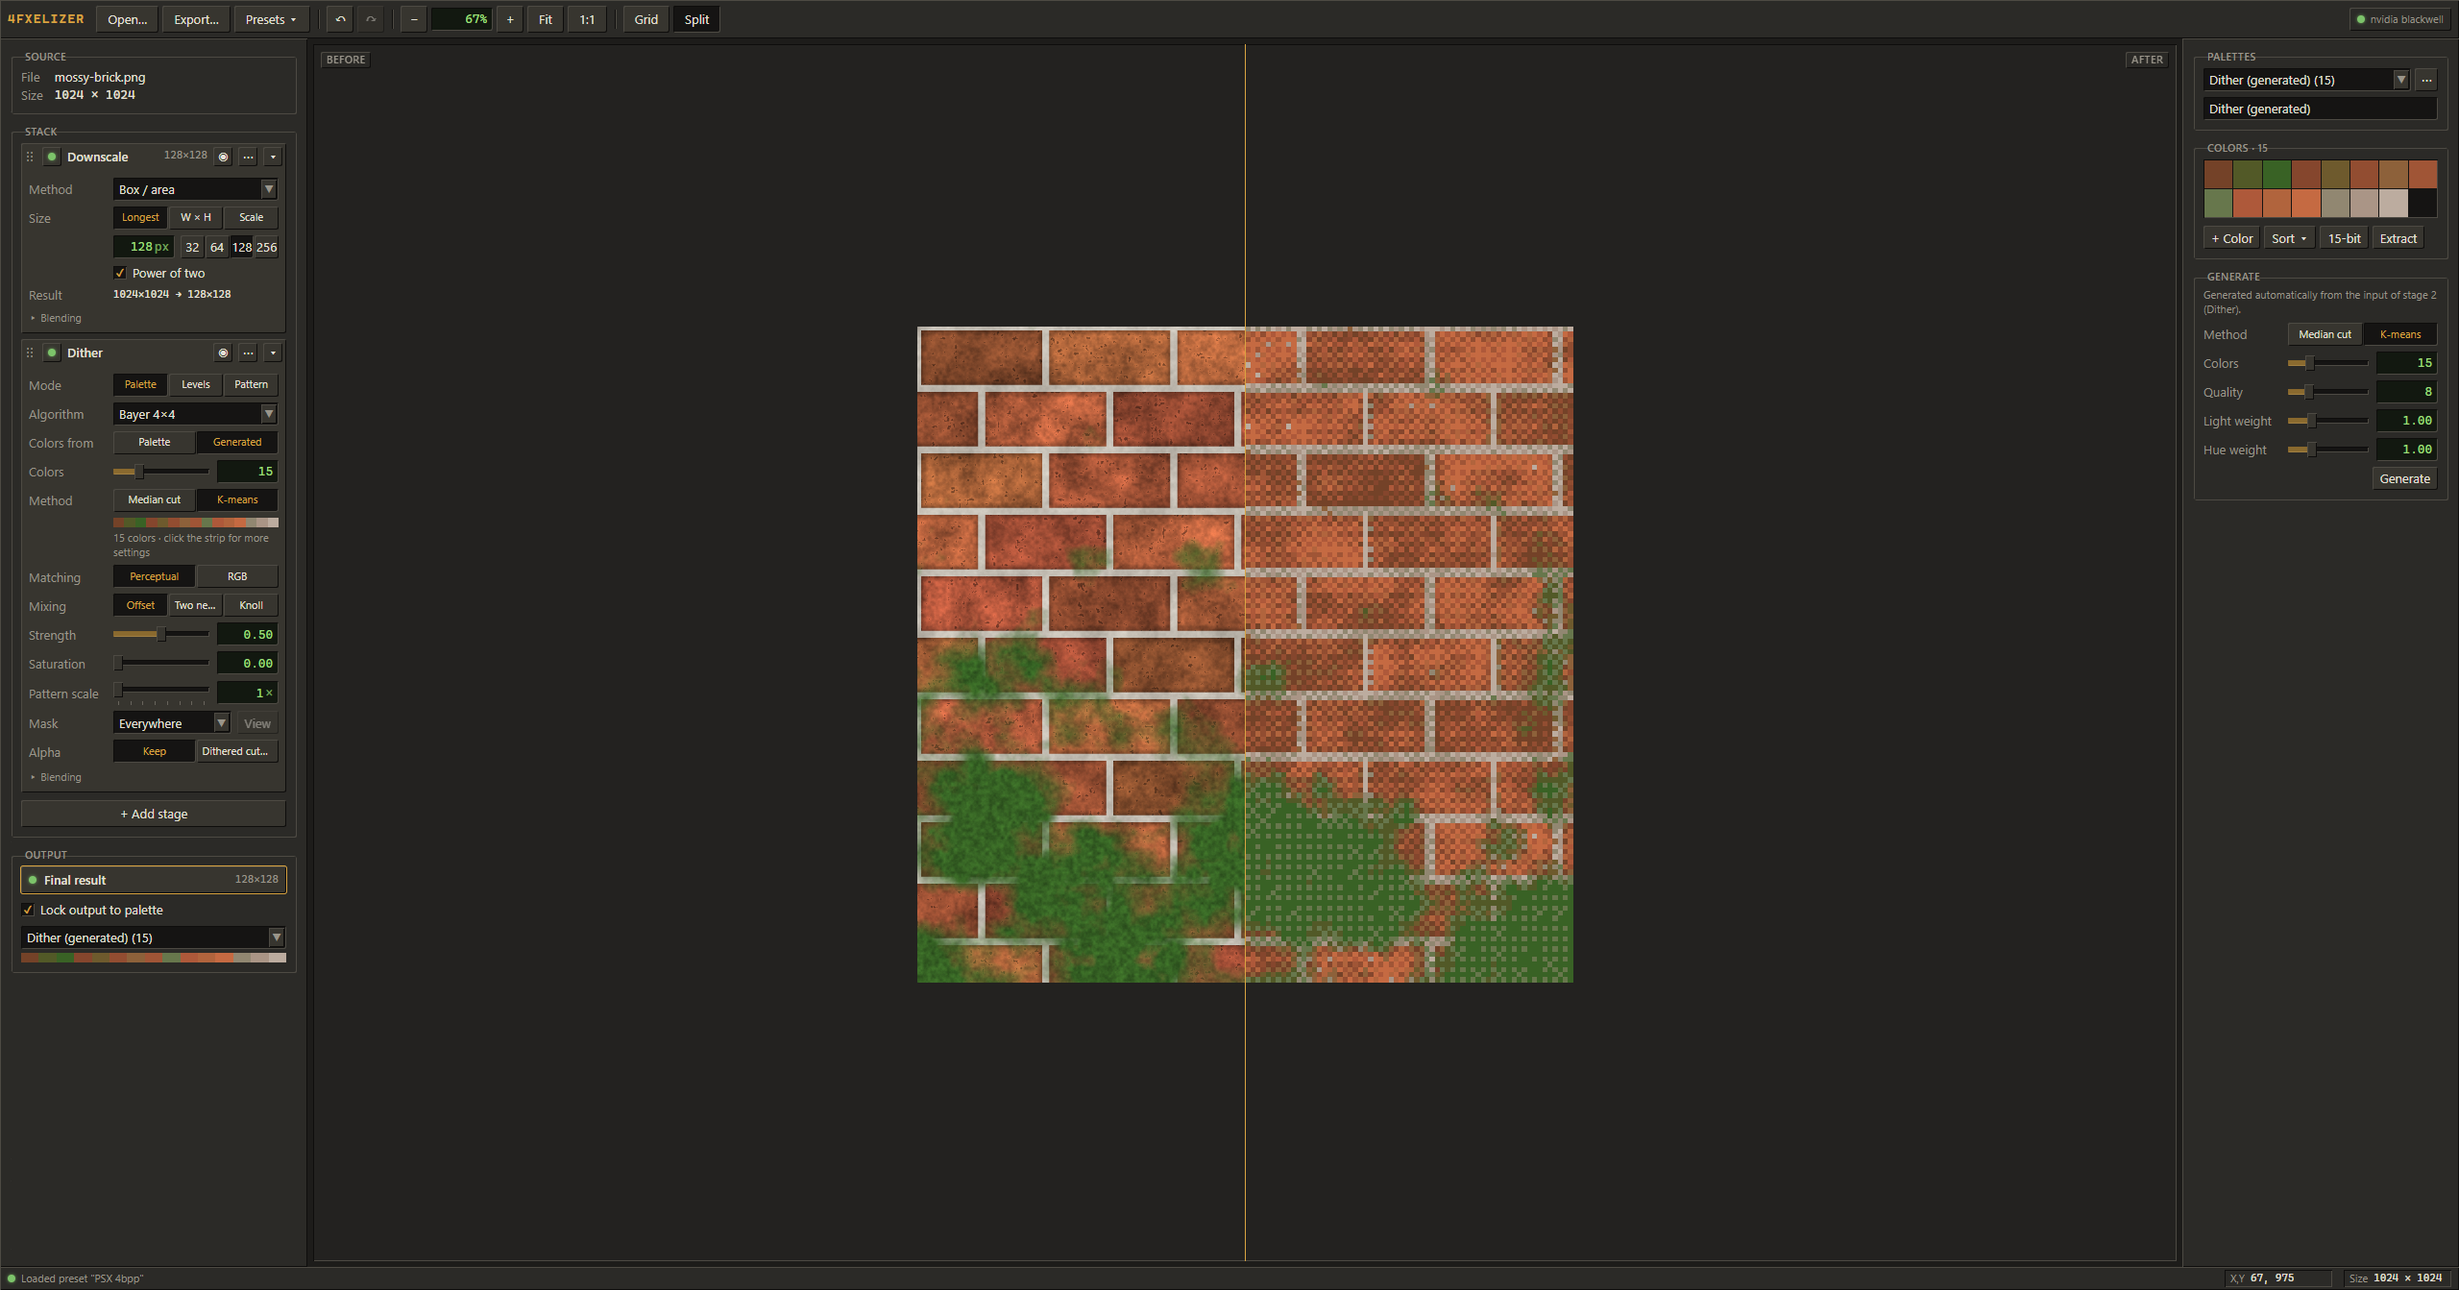
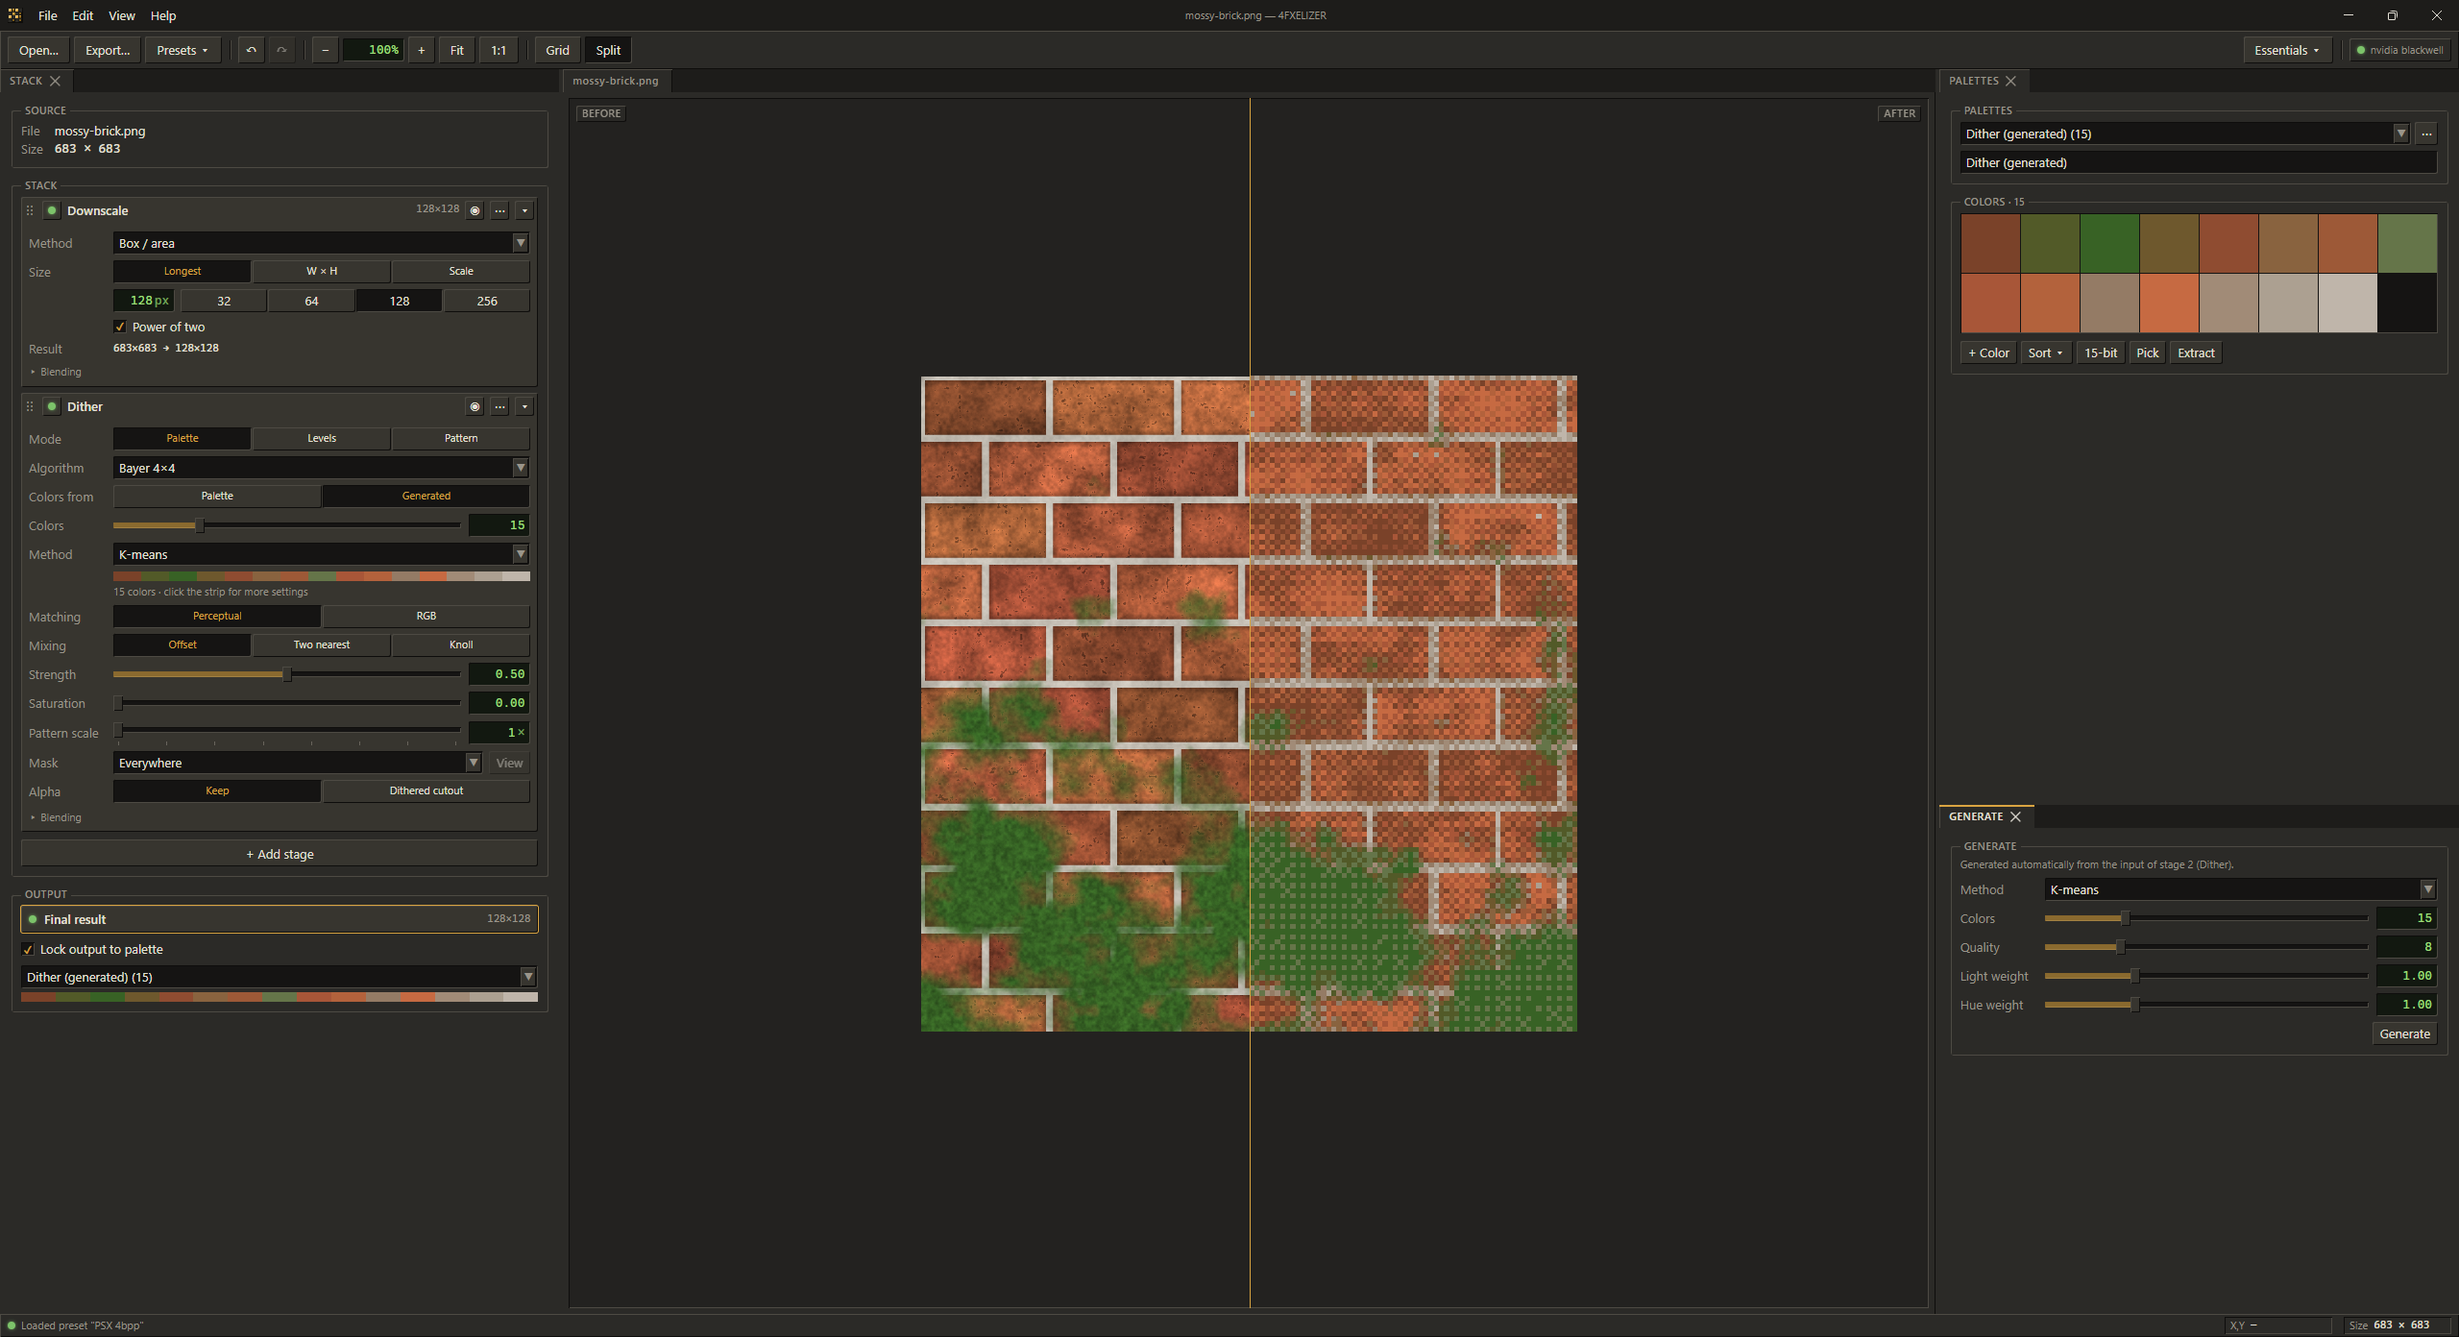
docs: update README, website and screenshot for the title bar, dockable panels, eyedropper and TGA/BMP export

diff --git a/site/index.html b/site/index.html
@@ -79,20 +79,20 @@ footer{border-top:1px solid var(--line);padding:28px 0;color:var(--dim);font-siz
   <div class="grid">
     <div class="card"><h3>Reorderable stage stack</h3><p>Adjust, Downscale, Upscale, Quantize and Dither. Drag them in any order, add the same stage twice, click one to preview the image at that point.</p></div>
     <div class="card"><h3>Real dithering</h3><p>Bayer, blue noise, halftone, lines, N64 magic square, plus Floyd–Steinberg, Atkinson, Stucki, Sierra and more. Masks decide where it applies.</p></div>
-    <div class="card"><h3>Smart palettes</h3><p>Generate up to 8192 colors in OKLab, start from PICO-8, NES, Game Boy, CGA or C64, import <code>.hex .gpl .pal .act .ase</code>, edit and lock colors.</p></div>
+    <div class="card"><h3>Smart palettes</h3><p>Generate up to 8192 colors in OKLab with median cut, Wu, octree or k-means, start from PICO-8, NES, Game Boy, CGA or C64, import <code>.hex .gpl .pal .act .ase</code>, edit and lock colors, or pick them from the image with the eyedropper.</p></div>
     <div class="card"><h3>Downscale &amp; upscale filters</h3><p>Box, Lanczos, dominant color, edge-preserving, contrast-aware; back up with the N64 3-point filter, Scale2x, sharp bilinear and more.</p></div>
     <div class="card"><h3>Presets</h3><p>PSX 8bpp / 4bpp / 15-bit, N64, NES-ish, Game Boy, Crunchy. Save your own as shareable <code>.4fxpreset</code> files.</p></div>
-    <div class="card"><h3>Exact export</h3><p>PNG (RGBA) or indexed PNG at 1/2/4/8 bits, with palette order kept and transparency at index 0. No color-space surprises.</p></div>
+    <div class="card"><h3>Exact export</h3><p>PNG, TGA or BMP, full color or indexed, with palette order kept and transparency at index 0. No color-space surprises.</p></div>
     <div class="card"><h3>WebGPU speed</h3><p>Every stage is a compute shader with per-stage caching, so tweaking a slider only re-runs what changed.</p></div>
-    <div class="card"><h3>Undo everything</h3><p>Undo and redo cover the stack and the palettes. Split view, pixel grid and zoom for close inspection.</p></div>
+    <div class="card"><h3>Your workspace</h3><p>Dock, tab, float and resize the panels, switch between built-in workspaces or save your own. Undo covers the stack and palettes; split view and pixel grid for close inspection.</p></div>
   </div>
 </div></section>
 
 <section id="gallery"><div class="wrap">
   <h2>Gallery</h2>
-  <p class="sub">One 1024×1024 source texture, six built-in presets.</p>
+  <p class="sub">One source texture, six built-in presets.</p>
   <div class="gallery">
-    <figure><img src="images/gallery-source.png" alt="Source" loading="lazy"><figcaption><b>Source</b> 1024×1024</figcaption></figure>
+    <figure><img src="images/gallery-source.png" alt="Source" loading="lazy"><figcaption><b>Source</b></figcaption></figure>
     <figure><img src="images/gallery-psx-8bpp.png" alt="PSX 8bpp" loading="lazy"><figcaption><b>PSX 8bpp</b> 256 colors</figcaption></figure>
     <figure><img src="images/gallery-psx-4bpp.png" alt="PSX 4bpp" loading="lazy"><figcaption><b>PSX 4bpp</b> 16 colors</figcaption></figure>
     <figure><img src="images/gallery-n64.png" alt="N64" loading="lazy"><figcaption><b>N64</b> filtered blur</figcaption></figure>
@@ -107,7 +107,7 @@ footer{border-top:1px solid var(--line);padding:28px 0;color:var(--dim);font-siz
   <ol class="steps">
     <li><b>Download</b> the installer for your OS from the <a href="https://github.com/forfex/4fxelizer/releases/latest">latest release</a> (Windows setup, macOS dmg, Linux AppImage or deb). Builds are not code-signed yet, so Windows SmartScreen or macOS Gatekeeper may warn.</li>
     <li><b>Drop a texture</b> into the window (PNG, JPG, TGA and more), or use <i>File › Open Image…</i>.</li>
-    <li><b>Pick a preset</b> or tweak the stack, compare with the split view, then <b>Export</b> a PNG or indexed PNG.</li>
+    <li><b>Pick a preset</b> or tweak the stack, compare with the split view, then <b>Export</b> a PNG, TGA or BMP, full color or indexed.</li>
   </ol>
   <p class="sub" style="margin-top:24px">Requires a GPU with WebGPU support. Windows 11 is the verified platform so far; macOS and Linux builds are produced by CI and feedback is welcome.</p>
   <p class="sub">Build from source:</p>
@@ -117,6 +117,6 @@ npm install
 npm run dev</code></pre>
 </div></section>
 
-<footer><div class="wrap">4FXELIZER · <a href="https://github.com/forfex/4fxelizer">GitHub</a> · <a href="https://github.com/forfex/4fxelizer/blob/master/docs/PLAN.md">Roadmap</a> · <a href="https://github.com/forfex/4fxelizer/issues">Issues</a></div></footer>
+<footer><div class="wrap">4FXELIZER · <a href="https://github.com/forfex/4fxelizer">GitHub</a> · <a href="https://github.com/forfex/4fxelizer/blob/master/docs/PLAN.md">Roadmap</a> · <a href="https://github.com/forfex/4fxelizer/issues">Issues</a> · <a href="https://github.com/forfex/4fxelizer/blob/master/LICENSE">MIT License</a></div></footer>
 </body>
 </html>

diff --git a/CLAUDE.md b/CLAUDE.md
@@ -24,7 +24,7 @@ Three Electron processes share one IPC contract:
 
 - `src/shared/api.ts`: the `FxApi` interface (exposed as `window.fx`), the `IPC` channel names and `MenuCommand`. Change the contract here first, then update main (`ipcMain.handle`) and preload.
 - `src/shared/menu.ts` defines the app menu once (`appMenu`). Main builds the native menu from it (keyboard shortcuts everywhere, the real menu bar on macOS); the renderer draws it in the custom title bar (`components/TitleBar.tsx`) on Windows/Linux. Add menu items there, never in only one place. Command items send a `MenuCommand`; role items (clipboard, full screen, quit) are performed by main (`runMenuRole`).
-- Title bar: the window uses `titleBarStyle: 'hidden'`. Windows/Linux keep the native window buttons as a `titleBarOverlay`, which the renderer colors from `--fx-titlebar-*` tokens at startup (`setTitleBarOverlay`); the title bar keeps clear of them with the `env(titlebar-area-*)` CSS variables. macOS keeps its traffic lights. Only the title bar's empty parts (icon, area around the title) are drag regions (`-webkit-app-region: drag`). Never layer a drag region over something clickable, not even a `pointer-events: none` overlay: Windows hit-tests drag regions before the page gets the click, so the control silently stops working with a real mouse (automated clicks don't go through that hit test and still pass).
+- Title bar: the window uses `titleBarStyle: 'hidden'`. Windows/Linux keep the native window buttons as a `titleBarOverlay`, which the renderer colors from `--fx-titlebar-*` tokens at startup (`setTitleBarOverlay`); the title bar keeps clear of them with the `env(titlebar-area-*)` CSS variables. macOS keeps its traffic lights. Only the title bar's empty parts (icon, area around the title) are drag regions (`-webkit-app-region: drag`); popups and dialogs are `no-drag` globally (`styles/index.css`) because they can overlap it. The in-app menu bar works from the keyboard like a native one (Alt / F10 focus it, Alt+letter opens a menu, Escape hands focus back), and remembers the focused element on pointer down so clipboard roles reach it. Never layer a drag region over something clickable, not even a `pointer-events: none` overlay: Windows hit-tests drag regions before the page gets the click, so the control silently stops working with a real mouse (automated clicks don't go through that hit test and still pass).
 - `src/main/`: window, native menu (menu items send `MenuCommand`s to the renderer), file dialogs, GPU flags, `--gpu-report` mode. The window uses `sandbox: true` + `contextIsolation`, so the preload **must build as CommonJS** (`.cjs`, configured in `electron.vite.config.ts`).
 - `src/renderer/src/`: React UI plus all image processing, done on the GPU.
 
@@ -40,7 +40,7 @@ Path aliases: `@shared` → `src/shared`, `@` → `src/renderer/src`. They are d
 - `stack/analyze.ts` (pure, tested) computes per-stage sizes and the order warnings shown on stage cards.
 - Presets (`stack/preset.ts`, tested) serialize the document as `.4fxpreset` JSON. Parsing validates, fills defaults, drops unknown stages and remaps every stage/palette id and reference. User presets are files in `<userData>/presets` handled by `src/main/presets.ts` (file names validated there); built-ins are in `stack/builtinPresets.ts`. Keep old presets loading when params change: add defaults, never repurpose a field.
 - User settings (`UserSettings` / `normalizeSettings` in `@shared/api`, tested) live in `<userData>/settings.json`, owned by `src/main/settings.ts` (also window placement). The preload reads them synchronously (`window.fx.settings`) so the first render uses them; `renderer/src/settings.ts` applies them to the store and saves changes. Add a field with a default in `normalizeSettings`; old files keep working.
-- The panel layout is dockview (`dockview-react`), set up in `components/Workspace.tsx` and `workspace/workspace.ts`: the viewer plus tool panels (`PANELS`) that dock, tab, float and resize. Built-in workspaces are built through the dockview API (not stored JSON). The current layout, the active workspace and the user's saved workspaces live in `UserSettings` (`layout`, `workspace`, `workspaces`); a layout that fails to load falls back to a built-in workspace. The dock theme (`styles/dock.css`) maps dockview's `--dv-*` variables onto `--fx-*` tokens, and the dock sits in an `isolate` container so its high z-indexes stay below menus and dialogs. Adding a panel: a component rendering `PanelBody`, an entry in `PANELS` and in `COMPONENTS`, and a place in the built-in workspaces.
+- The panel layout is dockview (`dockview-react`), set up in `components/Workspace.tsx` and `workspace/workspace.ts`: the viewer plus tool panels (`PANELS`) that dock, tab, float and resize. Built-in workspaces are built through the dockview API (not stored JSON). The current layout, the active workspace and the user's saved workspaces live in `UserSettings` (`layout`, `workspace`, `workspaces`); a layout that fails to load falls back to a built-in workspace. Stored layouts are checked by `workspace/layoutCheck.ts` (tested) before `fromJSON`, because dockview doesn't validate component names and an unknown one would only fail at render; the dock also sits in an `ErrorBoundary` with a layout reset. Keep panel ids stable, or old layouts fall back to the default. The viewer stays mounted when switching built-in workspaces (`clearTools`), and a pending layout save is flushed on `beforeunload` (main flushes settings on `will-quit`). The dock theme (`styles/dock.css`) maps dockview's `--dv-*` variables onto `--fx-*` tokens, and the dock sits in an `isolate` container so its high z-indexes stay below menus and dialogs. Adding a panel: a component rendering `PanelBody`, an entry in `PANELS` and in `COMPONENTS`, and a place in the built-in workspaces.
 - Dev builds expose `window.__fx = { useApp, getEngine }` for DevTools and automation.
 
 ### GPU pipeline (`src/renderer/src/gpu/`)

diff --git a/README.md b/README.md
@@ -19,7 +19,7 @@
 
 ## Gallery
 
-One 1024×1024 source texture through the built-in presets:
+One source texture through the built-in presets:
 
 | Source | PSX 8bpp | PSX 4bpp | N64 |
 |:--:|:--:|:--:|:--:|
@@ -56,14 +56,17 @@ Quantize and Dither take their colors from a **palette** or a **generated** pale
 automatically from the stage's input). Palettes are shared resources: generate them from the image
 (median cut, Wu, octree or k-means), start from a built-in (PICO-8, NES, Game Boy, CGA, C64, …), import
 `.hex/.gpl/.pal/.act/.ase`, edit and lock colors, or pick colors from the image with the eyedropper
-(**Pick**, or Alt+click the viewer).
+(**Pick**, or Alt+click the viewer; some Linux desktops reserve Alt+click for moving windows, so use **Pick** there).
+Wu and octree reach the requested color count even on smooth gradients.
 **Presets** (toolbar › Presets) save the whole stack to reuse on other textures; built-ins include PSX 8bpp/4bpp,
 PSX 15-bit, N64, NES-ish, Game Boy and Crunchy. Presets are `.4fxpreset` files you can share.
 Panels dock, tab together, float over the viewer and resize, like in Photoshop; the toolbar's workspace menu
 switches between built-in layouts (Essentials, Wide viewer, Palette editing, Floating), saves your own and resets them.
+On Windows and Linux the app draws its own title bar with the menus in the theme's colors; Alt or F10 moves to
+the menus and Alt+letter opens one, as in a native menu bar. macOS keeps its system menu bar.
 Grid, split view, the export format, the panel layout and the window size and position are remembered between sessions.
 **File › Export** writes PNG, TGA or BMP, full color or indexed (palette order kept, transparency at index 0;
-BMP has no transparency).
+indexed BMP has no alpha, so transparent pixels use index 0 and semi-transparent ones become opaque).
 Undo/redo covers the stack and palettes. Hover a slider for a second (or click it) to adjust it with the mouse wheel.
 
 ## Development
@@ -110,16 +113,17 @@ AppImage + deb) and publishes a GitHub release when a `v*` tag is pushed. Bump `
 first; the tag must match it:
 
 ```bash
-git tag v0.1.0
-git push origin v0.1.0
+git tag v0.2.0
+git push origin v0.2.0
 ```
 
 ## Layout
 
 ```
-src/main/            Electron main: window, menu, file dialogs, GPU flags, --gpu-report
+src/main/            Electron main: window, native menu, file dialogs, settings, GPU flags, --gpu-report
 src/preload/         window.fx bridge (sandboxed, CommonJS)
-src/shared/api.ts    IPC contract shared by main, preload and renderer
+src/shared/api.ts    IPC contract and user settings shared by main, preload and renderer
+src/shared/menu.ts   the app menu, defined once: native menu in main, title bar menus in the renderer
 src/renderer/src/
   gpu/pass.ts        pass framework: each stage = one WGSL compute function (+ blend, palette, pattern)
   gpu/wgslLib.ts     WGSL helpers shared by all passes (OKLab, palette lookup, dither thresholds, blend)
@@ -132,11 +136,12 @@ src/renderer/src/
   palette/           palette model, generation (worker), file formats, built-ins, auto-regeneration
   dither/            blue-noise generator (void-and-cluster)
   stack/             document ops, presets, built-in presets, order warnings (pure, unit-tested)
-  image/             PNG (RGBA + indexed) encoder, TGA decoder, half-float readback
+  image/             PNG, TGA and BMP encoders (RGBA + indexed), TGA decoder, half-float readback
   viewer/viewport.ts zoom/pan math in device pixels
   engine.ts          owns GPU objects; React talks to it
   store.ts           app state + undoable document (zustand)
-  components/        stack panel, stage editors, palette panel, export dialog, viewer
+  workspace/         dockable panel layout: built-in workspaces, saved layouts and their checks
+  components/        title bar, dock, stack panel, stage editors, palette panel, export dialog, viewer
   components/ui/     shadcn-style primitives, restyled via tokens
   styles/tokens.css  design tokens: the one place to restyle the app
 ```
